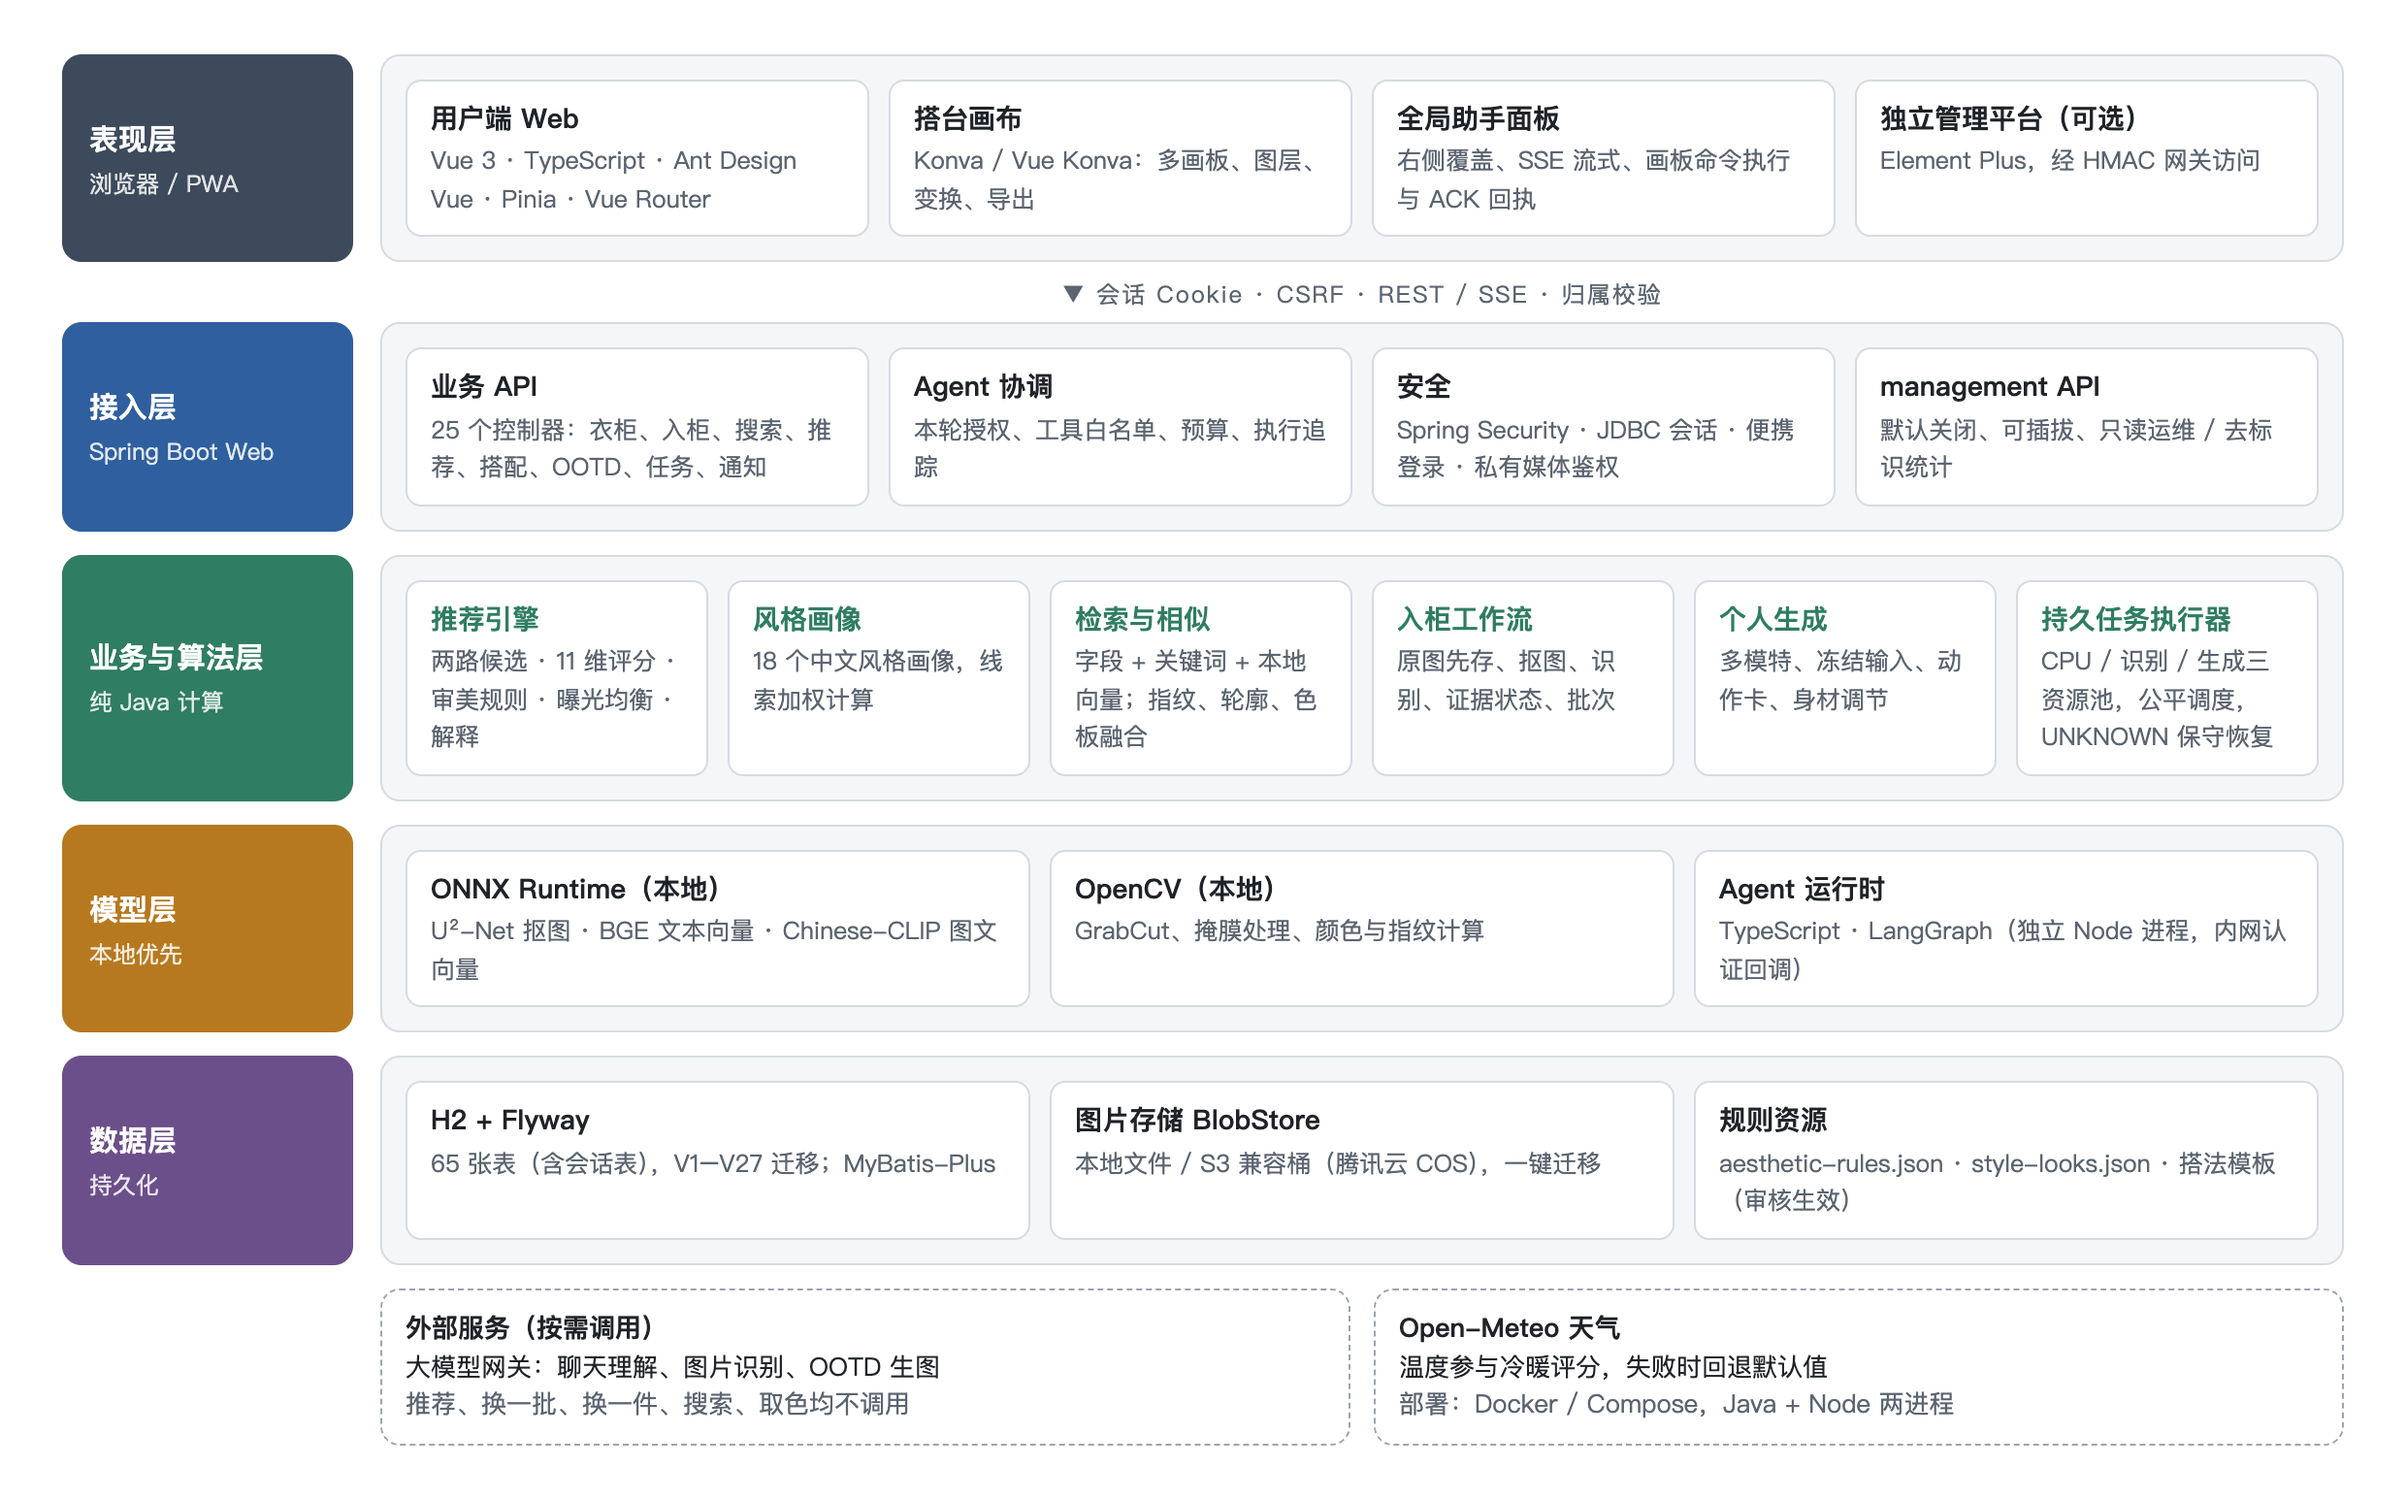
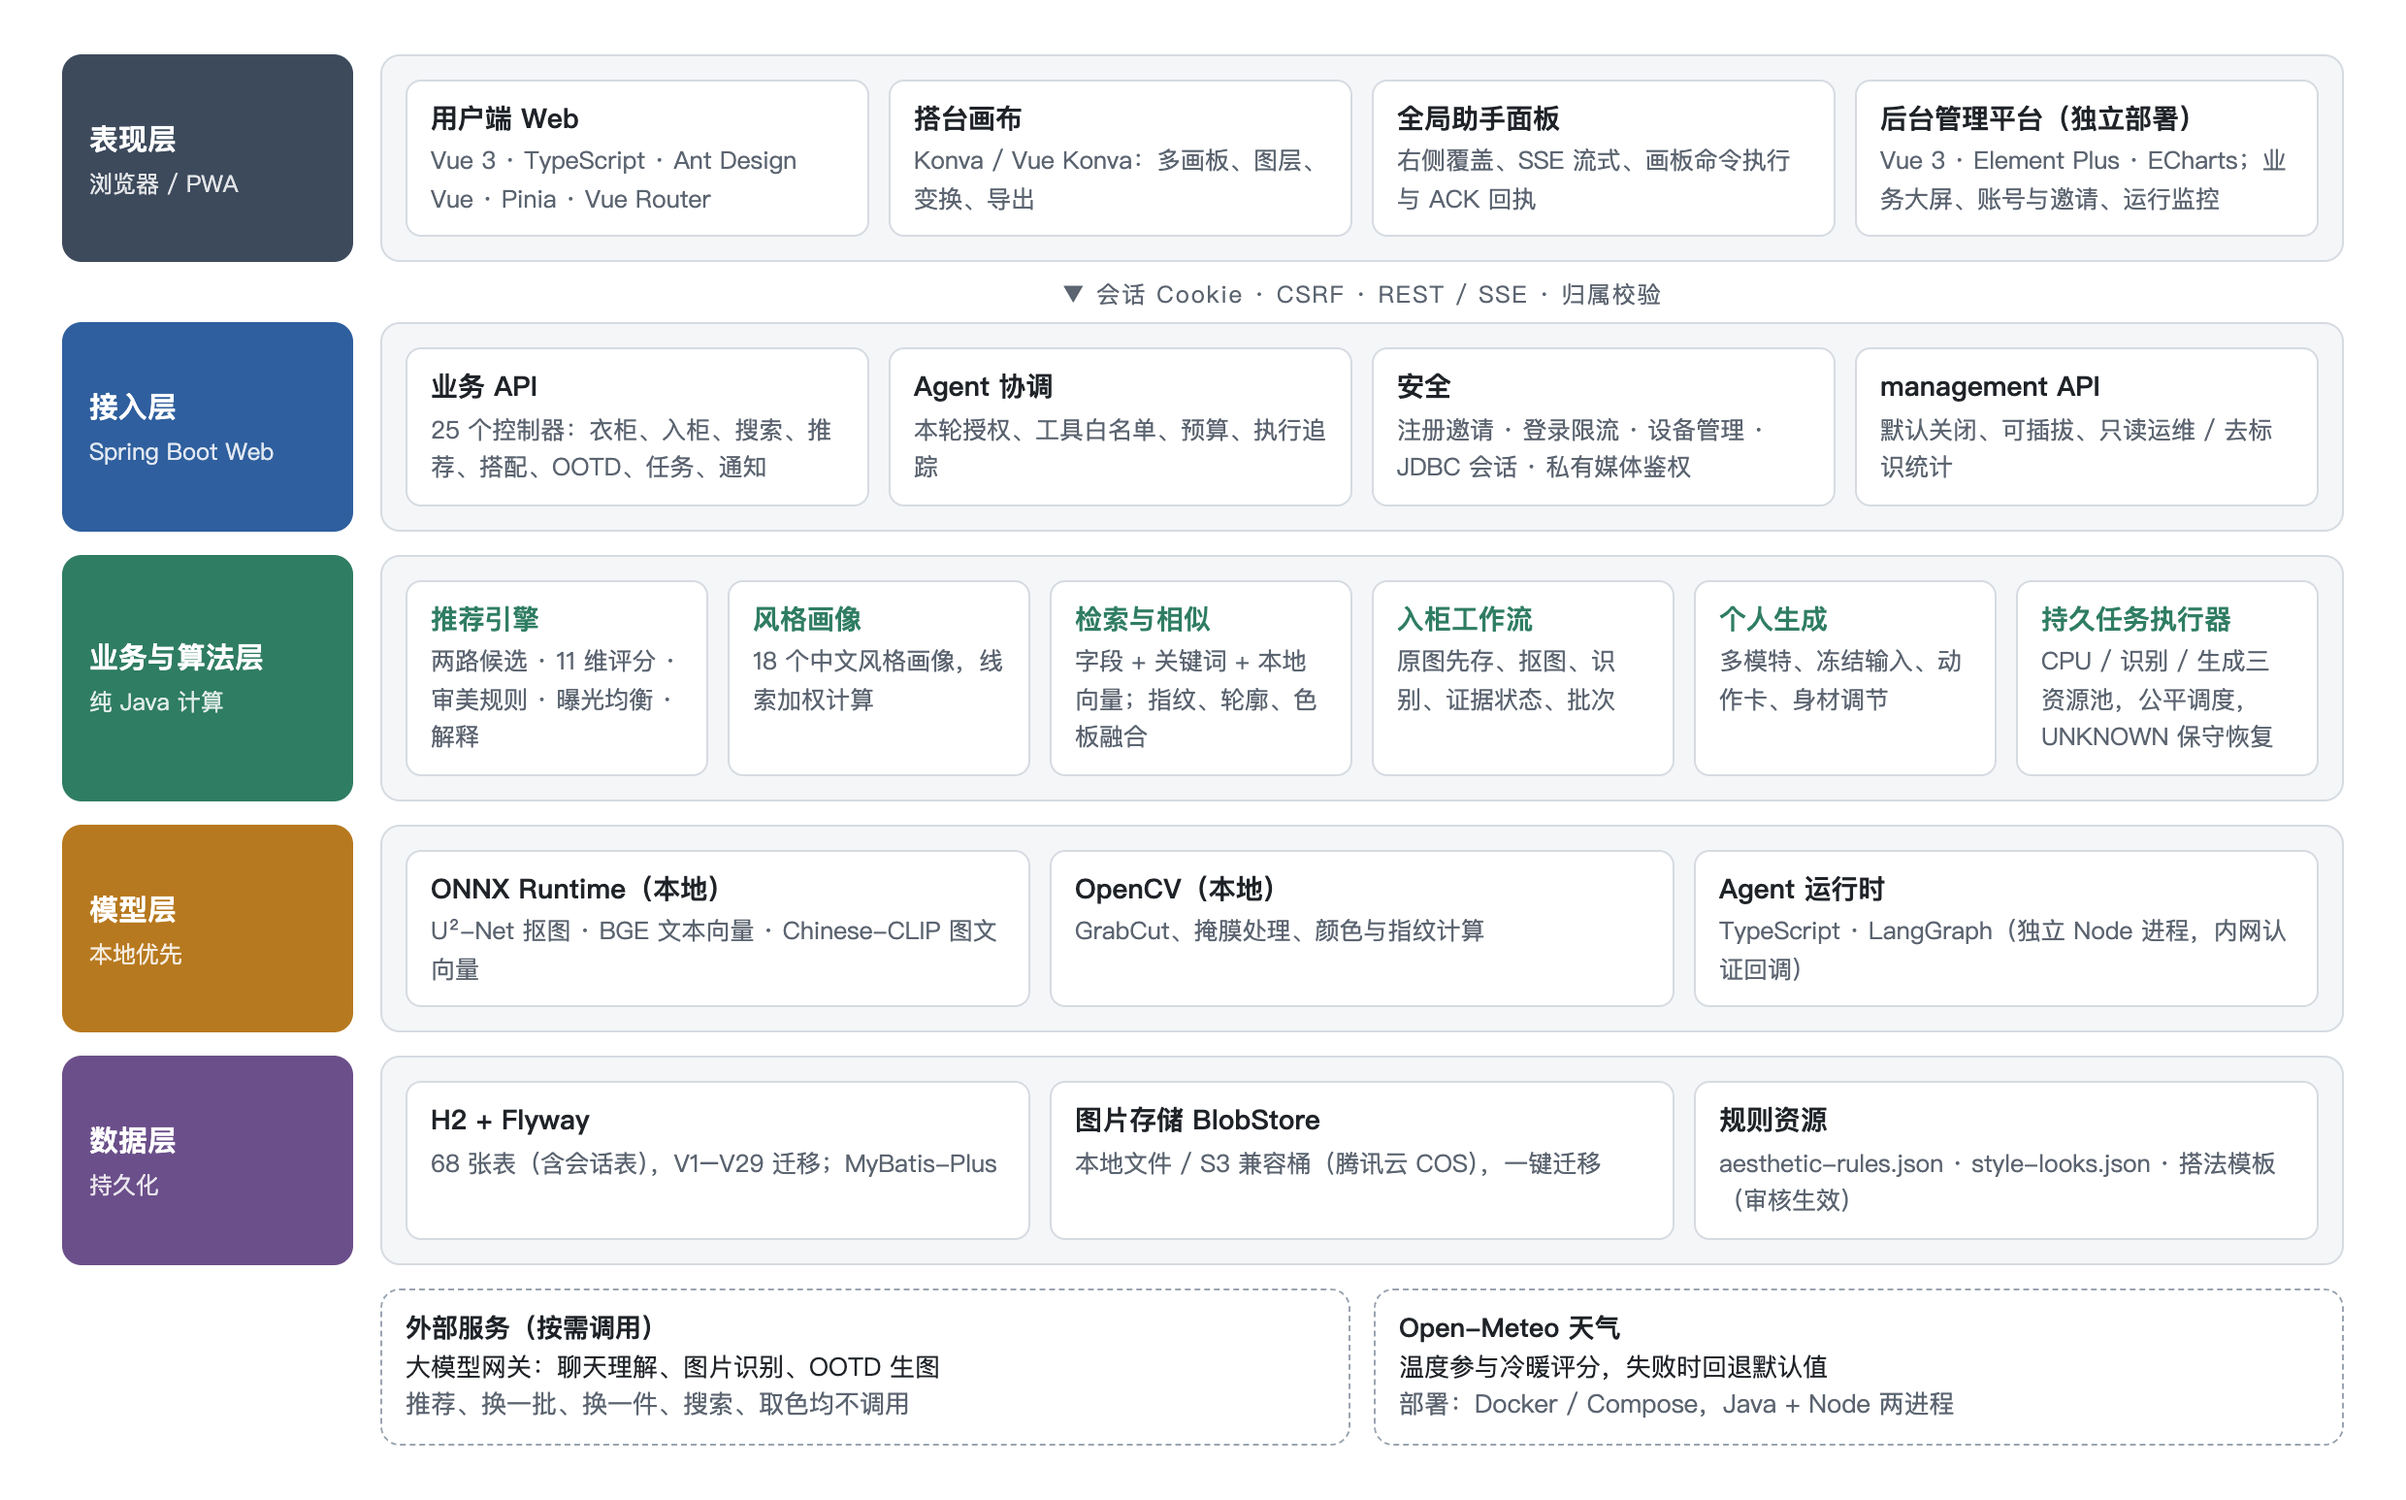
docs: 2026-10-21 增量更新；账号与后台管理截图，关键数字/架构/数据实体图更新

Changed region(s): [[0.7762, 0.0621, 0.9625, 0.1552], [0.5589, 0.2794, 0.7452, 0.3415]]

diff --git a/作品介绍文档/figures-src/fig-er.html b/作品介绍文档/figures-src/fig-er.html
@@ -15,8 +15,8 @@
 </style></head><body><div id="fig"><h1 class="t">核心数据实体</h1>
 <div class="cols">
 <div class="dom"><h3><i style="background:#3d4a5c"></i>账户与安全</h3>
-<div class="t"><b style="background:#3d4a5c">closet_user</b><div class="pk">username PK</div><div>password_hash</div><div>role <em>ADMIN/USER</em></div><div>must_change_password</div><div>enabled</div></div>
-<div class="t"><b style="background:#3d4a5c">portable_login_link</b><div>token_hash <em>SHA-256</em></div><div>expires / consumed</div></div>
+<div class="t"><b style="background:#3d4a5c">closet_user</b><div class="pk">username PK</div><div>password_hash</div><div>role <em>ADMIN/USER</em></div><div>display_name · last_login_at_ms</div><div>registered_via <em>ADMIN/INVITE/OPEN</em></div><div>enabled · deactivated_at_ms</div></div>
+<div class="t"><b style="background:#3d4a5c">registration_invite</b><div>code_hash <em>SHA-256</em></div><div>名额 · 到期 · 撤销</div></div><div class="t"><b style="background:#3d4a5c">account_event</b><div>账号事件审计 <em>180 天</em></div><div>不记密码 / IP</div></div>
 <div class="t"><b style="background:#3d4a5c">user_notification</b><div>kind · title · href</div><div>dedupe_key <em>去重</em></div><div>read_at_ms</div><div>dismissed_at_ms <em>V27</em></div></div>
 </div>
 <div class="dom"><h3><i style="background:#2f5f9e"></i>衣柜与图片</h3>
@@ -43,5 +43,5 @@
 <div class="t"><b style="background:#b7791f">agent_session / message</b><div>agent_trace_run / event</div><div>agent_memory_use_grant</div></div>
 </div>
 </div>
-<div class="rel">主要关系：<code>closet_user 1—n garment / outfit / recommendation_log / person_baseline / pose_card</code>　<code>garment n—1 image_asset</code>　<code>recommendation_log 1—n recommendation_feedback</code>　<code>outfit 1—n outfit_plan 1—1 image_render_job</code>　<code>execution_task 1—n execution_attempt</code>。共 65 张表（含 2 张 Spring Session 表），V1–V27 由 Flyway 迁移；图中只列关键字段。</div>
+<div class="rel">主要关系：<code>closet_user 1—n garment / outfit / recommendation_log / person_baseline / pose_card</code>　<code>garment n—1 image_asset</code>　<code>recommendation_log 1—n recommendation_feedback</code>　<code>outfit 1—n outfit_plan 1—1 image_render_job</code>　<code>execution_task 1—n execution_attempt</code>。共 68 张表（含 2 张 Spring Session 表），V1–V29 由 Flyway 迁移；图中只列关键字段。</div>
 </div></body></html>

diff --git a/作品介绍文档/figures-src/fig-architecture.html b/作品介绍文档/figures-src/fig-architecture.html
@@ -20,13 +20,13 @@
 <div class="box"><b>用户端 Web</b><span>Vue 3 · TypeScript · Ant Design Vue · Pinia · Vue Router</span></div>
 <div class="box"><b>搭台画布</b><span>Konva / Vue Konva：多画板、图层、变换、导出</span></div>
 <div class="box"><b>全局助手面板</b><span>右侧覆盖、SSE 流式、画板命令执行与 ACK 回执</span></div>
-<div class="box"><b>独立管理平台（可选）</b><span>Element Plus，经 HMAC 网关访问</span></div>
+<div class="box"><b>后台管理平台（独立部署）</b><span>Vue 3 · Element Plus · ECharts；业务大屏、账号与邀请、运行监控</span></div>
 </div></div>
 <div class="arrow">▼ 会话 Cookie · CSRF · REST / SSE · 归属校验</div>
 <div class="layer l2"><div class="lab">接入层<small>Spring Boot Web</small></div><div class="row">
 <div class="box"><b>业务 API</b><span>25 个控制器：衣柜、入柜、搜索、推荐、搭配、OOTD、任务、通知</span></div>
 <div class="box"><b>Agent 协调</b><span>本轮授权、工具白名单、预算、执行追踪</span></div>
-<div class="box"><b>安全</b><span>Spring Security · JDBC 会话 · 便携登录 · 私有媒体鉴权</span></div>
+<div class="box"><b>安全</b><span>注册邀请 · 登录限流 · 设备管理 · JDBC 会话 · 私有媒体鉴权</span></div>
 <div class="box"><b>management API</b><span>默认关闭、可插拔、只读运维 / 去标识统计</span></div>
 </div></div>
 <div class="layer l3"><div class="lab">业务与算法层<small>纯 Java 计算</small></div><div class="row">
@@ -43,7 +43,7 @@
 <div class="box"><b>Agent 运行时</b><span>TypeScript · LangGraph（独立 Node 进程，内网认证回调）</span></div>
 </div></div>
 <div class="layer l5"><div class="lab">数据层<small>持久化</small></div><div class="row">
-<div class="box"><b>H2 + Flyway</b><span>65 张表（含会话表），V1–V27 迁移；MyBatis-Plus</span></div>
+<div class="box"><b>H2 + Flyway</b><span>68 张表（含会话表），V1–V29 迁移；MyBatis-Plus</span></div>
 <div class="box"><b>图片存储 BlobStore</b><span>本地文件 / S3 兼容桶（腾讯云 COS），一键迁移</span></div>
 <div class="box"><b>规则资源</b><span>aesthetic-rules.json · style-looks.json · 搭法模板（审核生效）</span></div>
 </div></div>

diff --git a/作品介绍文档/figures-src/fig-highlights.html b/作品介绍文档/figures-src/fig-highlights.html
@@ -16,9 +16,9 @@
 <div class="c" style="--k:#2f7d62"><div class="n">18<small>个</small></div><div class="t">中文风格画像</div><div class="d">千金、多巴胺、新中式……按颜色、面料、图案线索计算</div></div>
 <div class="c" style="--k:#2f7d62"><div class="n">2<small>×</small></div><div class="t">衣物曝光覆盖</div><div class="d">28 天模拟中进入推荐的衣物 49 → 97 件</div></div>
 <div class="c" style="--k:#2f5f9e"><div class="n">3<small>个</small></div><div class="t">本地运行的视觉 / 语义模型</div><div class="d">U²-Net 抠图、BGE 文本向量、Chinese-CLIP 图文向量</div></div>
-<div class="c" style="--k:#2f5f9e"><div class="n">677<small>项</small></div><div class="t">自动化测试</div><div class="d">后端 572 项、用户端 105 项，含 17 组好坏搭配考试题</div></div>
-<div class="c" style="--k:#2f5f9e"><div class="n">65<small>张</small></div><div class="t">数据表，27 次版本迁移</div><div class="d">衣柜、推荐、生成、任务、助手五个数据域</div></div>
+<div class="c" style="--k:#2f5f9e"><div class="n">703<small>项</small></div><div class="t">自动化测试</div><div class="d">后端 596 项、用户端 107 项，含 17 组好坏搭配考试题</div></div>
+<div class="c" style="--k:#2f5f9e"><div class="n">68<small>张</small></div><div class="t">数据表，29 次版本迁移</div><div class="d">账号、衣柜、推荐、生成、任务五个数据域</div></div>
 <div class="c" style="--k:#b7791f"><div class="n">270<small>件</small></div><div class="t">真实衣物在日常使用</div><div class="d">作者本人衣柜持续运行，本文界面截图均来自真实数据</div></div>
 </div>
-<div class="foot">数据截至 2026-10-18；曝光覆盖为离线模拟结果，测试数量为当日本机运行结果。</div>
+<div class="foot">数据截至 2026-10-21（主干代码）；曝光覆盖为离线模拟结果，测试数量为当日本机运行结果。</div>
 </div></body></html>

diff --git a/09-增量更新-2026-10-21.md b/09-增量更新-2026-10-21.md
@@ -1,0 +1,35 @@
+# 增量更新：2026-10-18 之后又改了什么？
+
+核对日期：2026-10-21。基线为 [08 增量更新](08-增量更新-2026-10-18.md)（后端 `5d2faa3`、用户端 `06b35b1`）。正式作品介绍在思源「草稿板/项目介绍文档」，已按本页同步。
+
+## 已合并到主干
+
+| 仓库 | PR | 内容 |
+|---|---|---|
+| 后端 | #53 | 五平台一键启动便携包（约 550–580 MB，内置 Java 21、Node 24、前端、Agent 与全部本地模型），启动器菜单、Release 自动构建 |
+| 后端 | #55 | 用户账号上线：注册（关闭 / 邀请 / 开放）、昵称、登录设备、自助注销、登录限流、账号事件审计；管理接口 1.2；迁移 V28、V29 |
+| 后端 | #56 | 日常检查迁到 CircleCI |
+| 后端 | #58 | 衣物图片 WebP 缩略图、预生成与浏览器缓存（实测 468 KB → 10 KB） |
+| 用户端 | #35 #36 #38 | 注册页、账户安全、鱼搭内用户管理；CircleCI；列表改用缩略图 |
+
+主干测试（2026-10-21 本机）：后端 596 项，583 通过、3 失败（与 10-18 相同的三项本机环境问题）、10 跳过；用户端 107 项全部通过。迁移 V1–V29，68 张表。
+
+## 开发中（未合并）
+
+| 功能 | 位置 | 说明 |
+|---|---|---|
+| 推荐对象：年龄感与着装取向 | PR #62（issue #59 #60 #61） | 修复“55 岁以上男性被推荐年轻款”；牛仔背带裤对该人群 97 → 89 分 |
+| 识图适穿性别 garment-v7 | PR #65（#63） | 女款判断改用适穿性别，识图推测只降分 |
+| 风格方向与常穿风格 | PR #66（#64） | 新增户外机能、工装、巴恩风画像 |
+| 预设衣物库 | 分支 feat/preset-garments、feat/preset-backend | 新用户冷启动：约 300 件基础款，勾选“我有类似的”建起步衣柜 |
+| 后台大屏与账号管理 | 后端 feat/dashboard-bigscreen；管理平台 feat/closet-accounts | 大屏 13 个板块；注册邀请、账号审计页面 |
+
+## 口径提醒
+
+- 本地 8080 库中已写入 `demo_` 开头的 360 个演示账号（约 7,750 件衣物），只用于大屏效果。后台大屏截图里的 362 用户、7,099 衣物等数字**不是真实运营数据**，文档中已标注；不要在答辩中当作用户规模。清理脚本：`scripts/demo-data/cleanup_demo.sql`（在 feat/dashboard-bigscreen 分支）。
+- 开发中的功能在文档 9.3 单列，不写成已交付。
+- 后台管理平台本身已在主干（10-17 起），账号与 13 板块大屏在管理平台的 feat/closet-accounts 分支，本机 8849 运行的是该分支。
+
+## 文档改动（思源）
+
+关键数字图（703 项测试、68 张表、29 次迁移）、1.5 项目规模、2.2.2、2.5 非功能需求、3.2 技术选型（新增后台管理平台、部署与持续集成）、3.5 数据库、3.6 账号安全、架构图与数据实体图、第五章新增 5.10 注册与账号安全和 5.11 后台管理平台、6.2/6.4/6.5 测试、9.1 对照表、9.2、新增 9.3 正在开发；目录同步。
